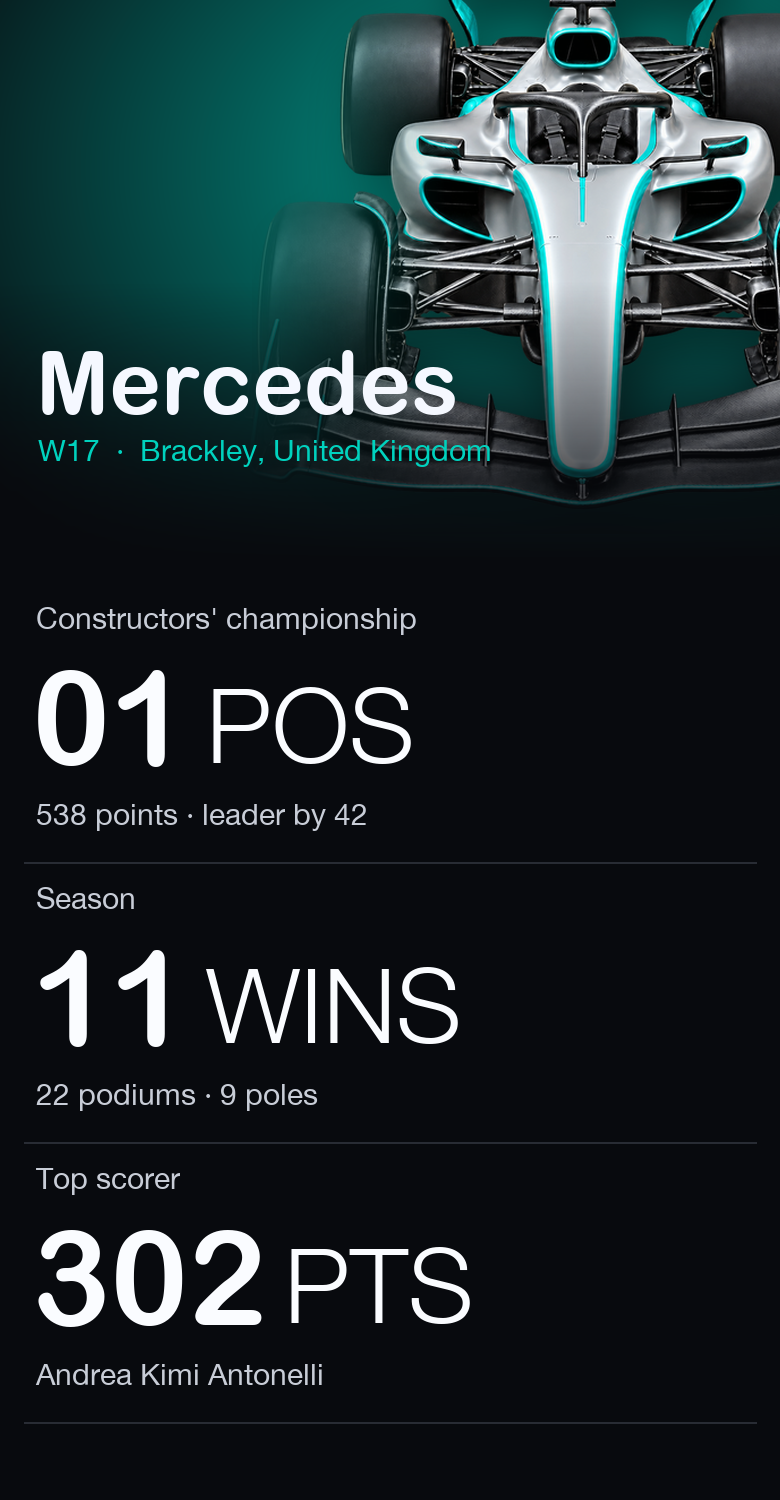
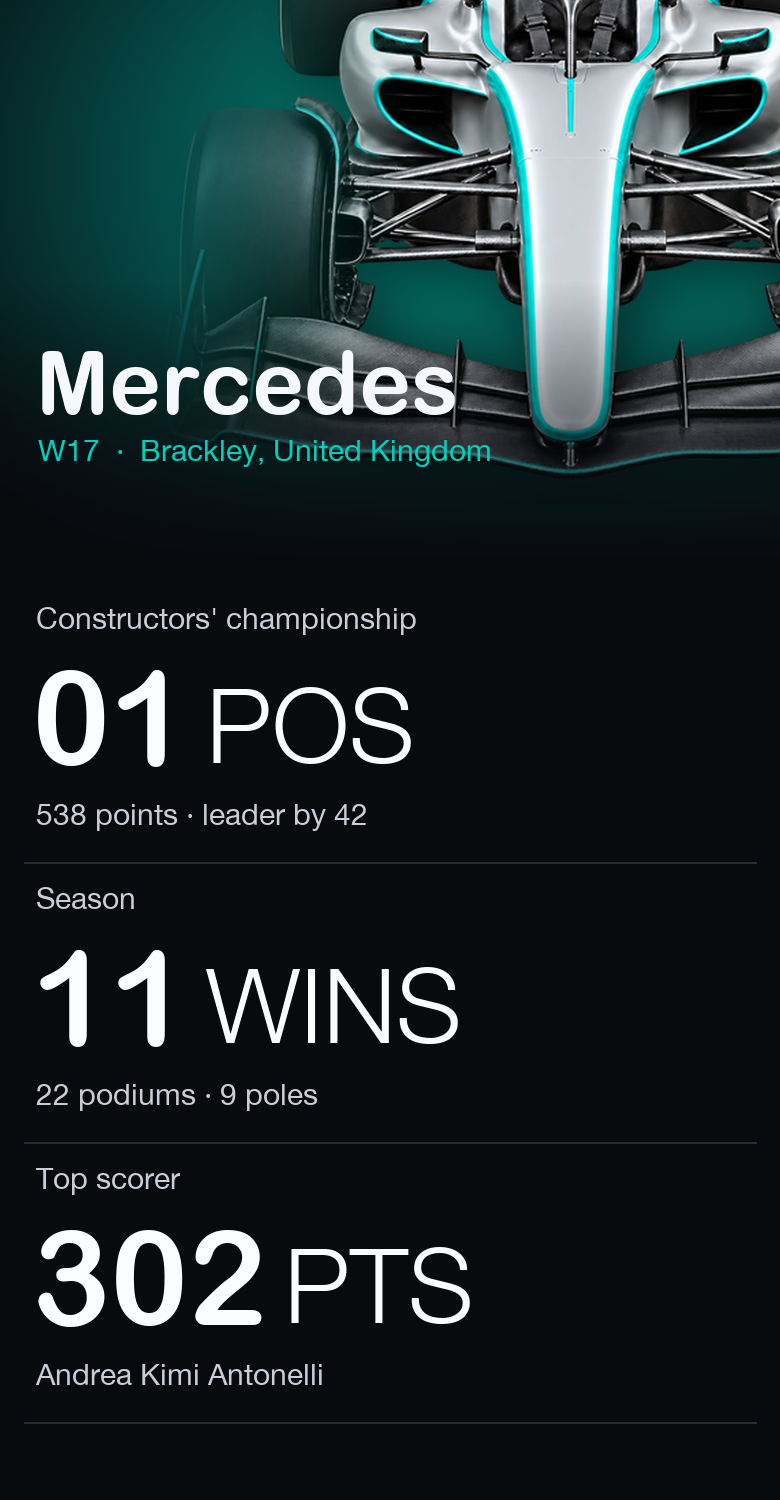
Team sheet mock: bigger car, mostly the nose

Changed region(s): [[0.2462, 0.0, 1.0, 0.3373]]

diff --git a/scripts/design/mock_profile_sheets.py b/scripts/design/mock_profile_sheets.py
@@ -30,8 +30,8 @@ def team(out):
     car = trim(Image.open('Marketing/raw/art/Silver graphite open-wheel with turquoise accents.png').convert('RGBA'))
     car = car.resize((600, int(car.height*600/car.width)), Image.LANCZOS)
     # straight down from the top, on the right like the driver: the front half enters the sheet
-    car = car.resize((680, int(car.height*680/car.width)), Image.LANCZOS)
-    x0, y0 = W - car.width + 142, -car.height + 510
+    car = car.resize((820, int(car.height*820/car.width)), Image.LANCZOS)
+    x0, y0 = W - car.width + 200, -car.height + 480
     car = fade_left(car, 0.3)
     sh = Image.new('RGBA', car.size, (0,0,0,0)); sh.putalpha(car.getchannel('A').point(lambda a: int(a*0.5)))
     hdr.alpha_composite(sh.filter(ImageFilter.GaussianBlur(22)), (x0+10, y0+24))
